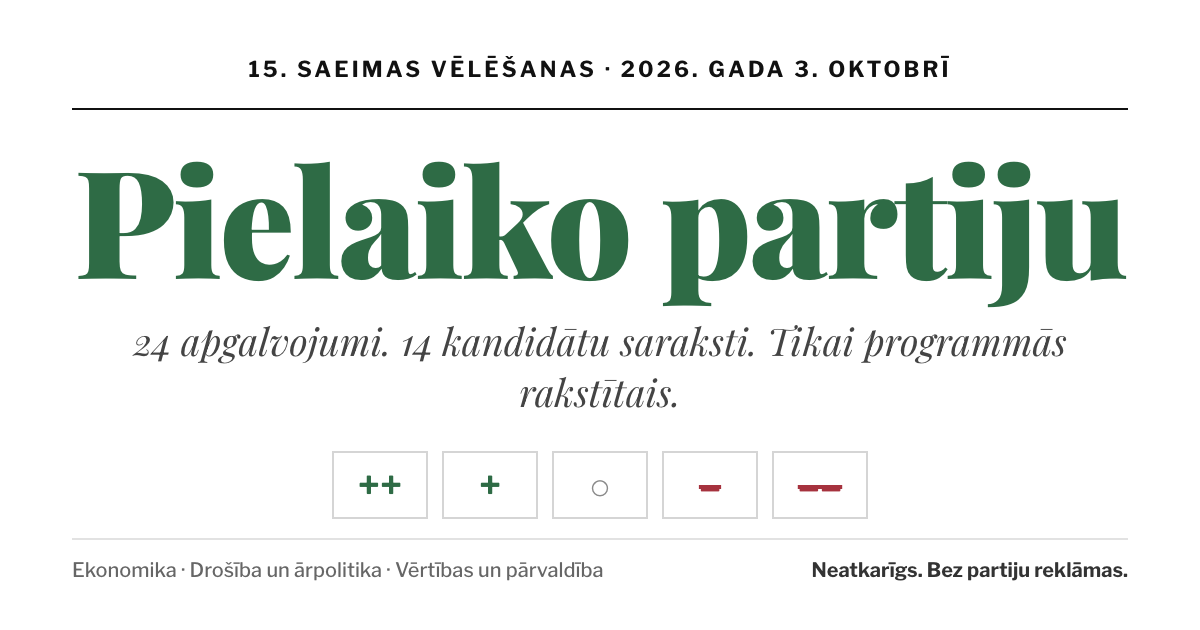
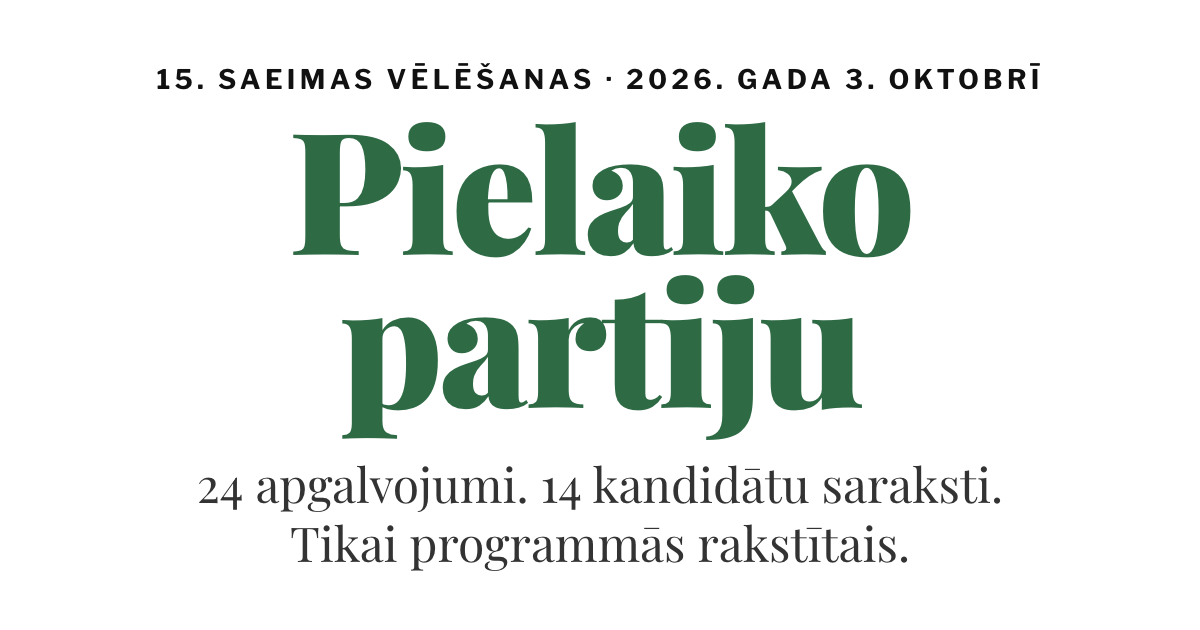
Noklusējuma OG attēls: centrēts virsraksts divās rindās un devīze pēc parauga

diff --git a/scripts/og-image.html b/scripts/og-image.html
@@ -2,33 +2,21 @@
 <html lang="lv">
 <head>
 <meta charset="utf-8">
-<link href="https://fonts.googleapis.com/css2?family=Playfair+Display:ital,wght@0,700;0,900;1,400&family=Libre+Franklin:wght@500;700&display=swap" rel="stylesheet">
+<link href="https://fonts.googleapis.com/css2?family=Playfair+Display:wght@400;900&family=Libre+Franklin:wght@700&display=swap" rel="stylesheet">
 <style>
   html,body{margin:0;padding:0}
   body{width:1200px;height:630px;overflow:hidden;background:#FFFFFF;color:#111111;font-family:"Libre Franklin","Helvetica Neue",Arial,sans-serif;-webkit-font-smoothing:antialiased}
-  .wrap{box-sizing:border-box;width:1200px;height:630px;padding:56px 72px 48px;display:flex;flex-direction:column;justify-content:space-between}
-  .kicker{font-size:22px;font-weight:700;letter-spacing:.14em;text-transform:uppercase;text-align:center;padding-bottom:26px;border-bottom:2px solid #111111}
-  h1{margin:36px 0 0;text-align:center;font-family:"Playfair Display",Georgia,"Times New Roman",serif;font-size:150px;font-weight:900;letter-spacing:-.02em;line-height:.95;color:#2E6B45}
-  .tag{margin:26px 0 0;text-align:center;font-family:"Playfair Display",Georgia,serif;font-style:italic;font-size:38px;color:#444444}
-  .glyphs{display:flex;justify-content:center;gap:14px;margin-top:34px}
-  .glyphs span{display:flex;align-items:center;justify-content:center;width:92px;height:64px;border:2px solid #D5D5D5;font-size:38px;font-weight:700;line-height:1}
-  .pos{color:#2E6B45}.neu{color:#8A8A8A}.neg{color:#A6323E;text-decoration:line-through;text-decoration-thickness:4px}
-  .foot{display:flex;justify-content:space-between;align-items:baseline;padding-top:18px;border-top:2px solid #E2E2E2;font-size:20px;font-weight:700;color:#333333}
-  .foot .dims{color:#666666;font-weight:500}
+  .wrap{box-sizing:border-box;width:1200px;height:630px;padding:44px 60px 40px;display:flex;flex-direction:column;align-items:center;justify-content:center;text-align:center}
+  .kicker{font-size:27px;font-weight:700;letter-spacing:.16em;text-transform:uppercase;color:#111111}
+  h1{margin:12px 0 0;font-family:"Playfair Display",Georgia,"Times New Roman",serif;font-size:170px;font-weight:900;letter-spacing:-.025em;line-height:.9;color:#2E6B45}
+  .tag{margin:40px 0 0;font-family:"Playfair Display",Georgia,serif;font-weight:400;font-size:48px;line-height:1.22;color:#333333;max-width:900px;text-wrap:balance}
 </style>
 </head>
 <body>
 <div class="wrap">
-  <div>
-    <div class="kicker">15. Saeimas vēlēšanas · 2026. gada 3. oktobrī</div>
-    <h1>Pielaiko partiju</h1>
-    <p class="tag">24 apgalvojumi. 14 kandidātu saraksti. Tikai programmās rakstītais.</p>
-    <div class="glyphs"><span class="pos">++</span><span class="pos">+</span><span class="neu">○</span><span class="neg">–</span><span class="neg">––</span></div>
-  </div>
-  <div class="foot">
-    <span class="dims">Ekonomika · Drošība un ārpolitika · Vērtības un pārvaldība</span>
-    <span>Neatkarīgs. Bez partiju reklāmas.</span>
-  </div>
+  <div class="kicker">15. Saeimas vēlēšanas · 2026. gada 3. oktobrī</div>
+  <h1>Pielaiko<br>partiju</h1>
+  <p class="tag">24 apgalvojumi. 14 kandidātu saraksti. Tikai programmās rakstītais.</p>
 </div>
 </body>
 </html>
